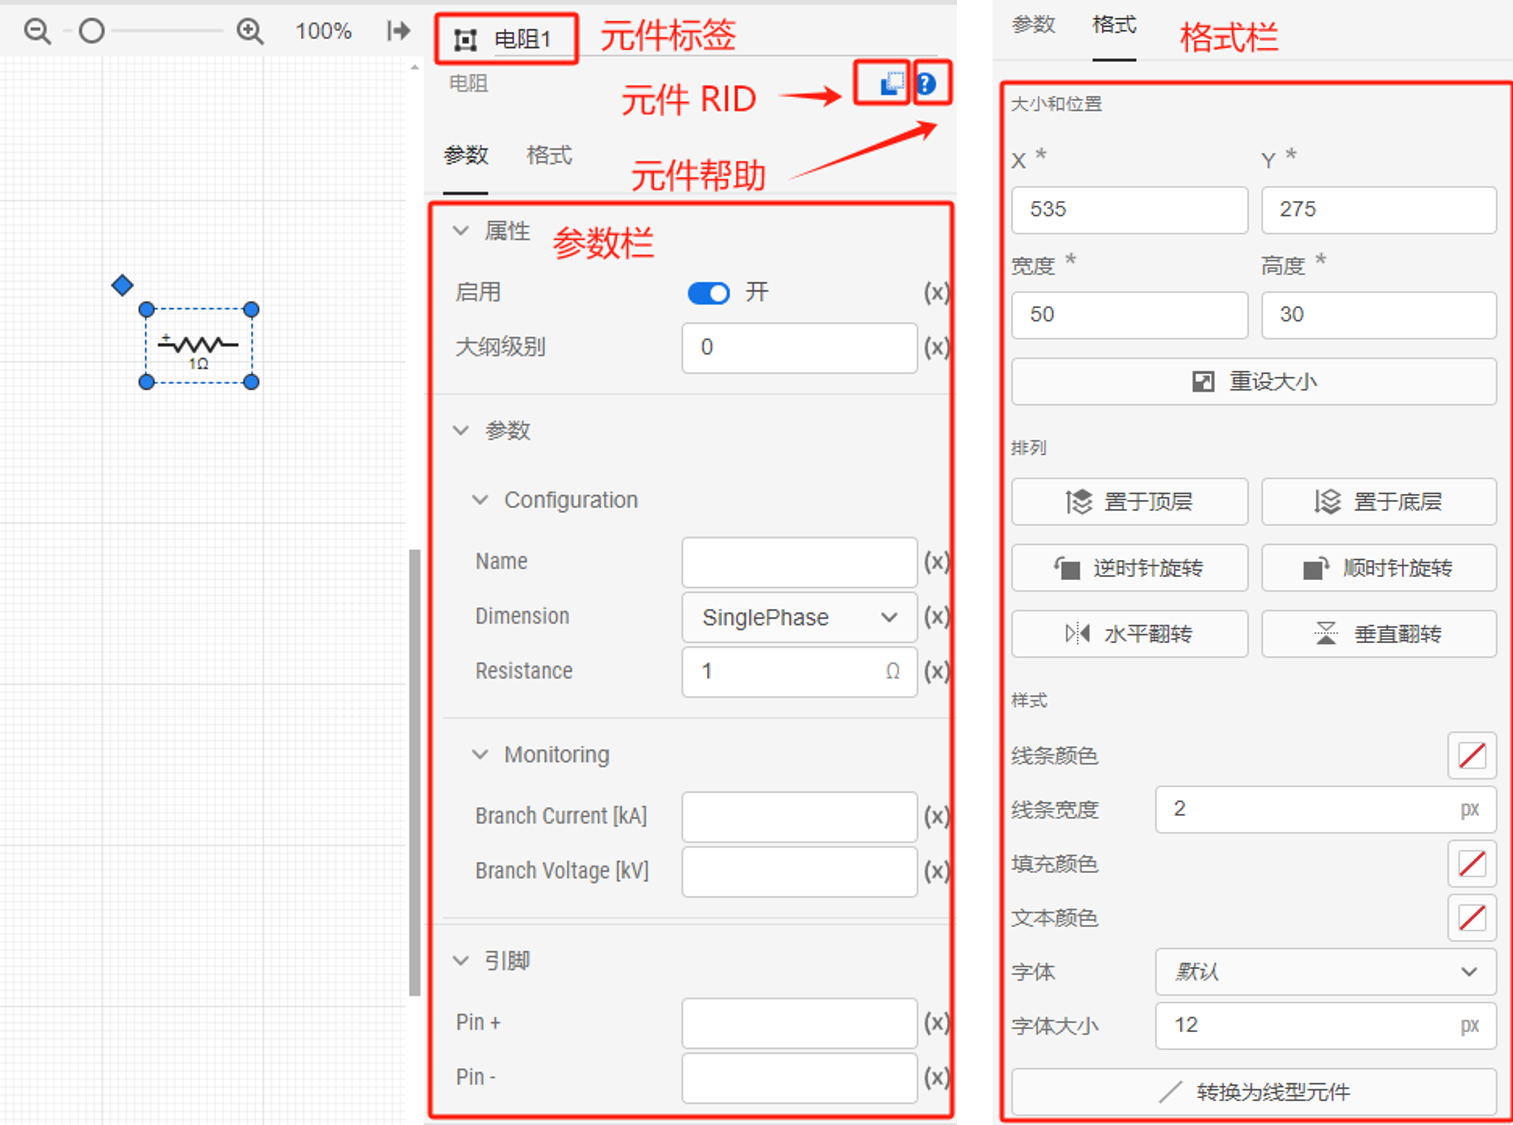
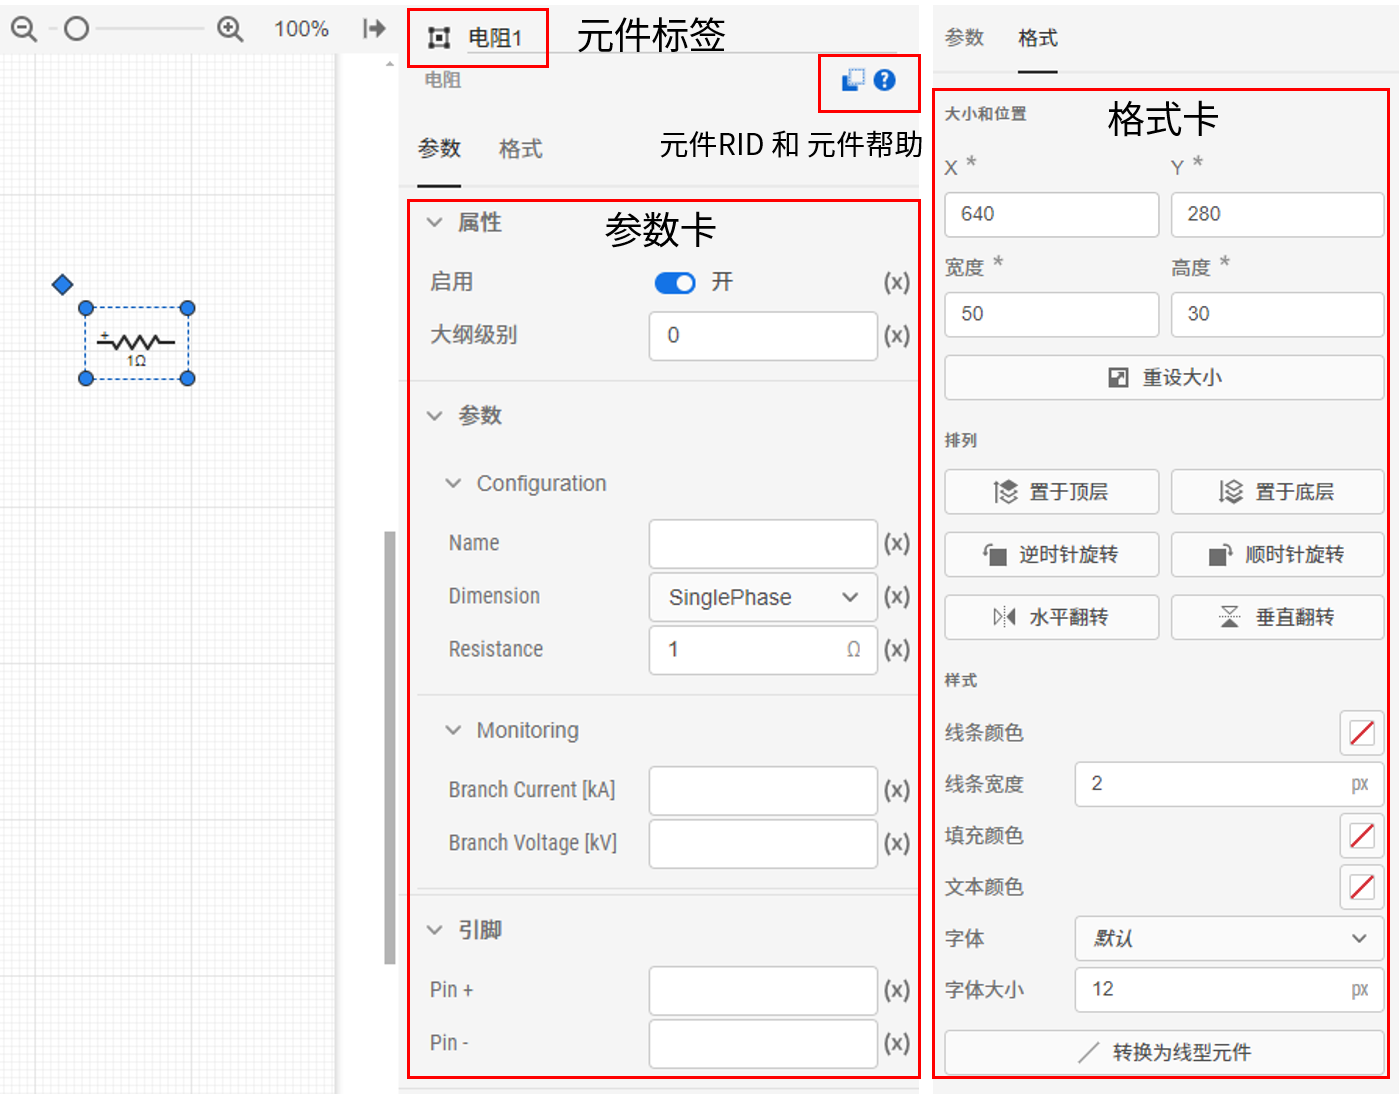
docs: XStudio更新

diff --git a/docs/documents/software/10-xstudio/20-simstudio/40-workbench/20-function-zone/30-design-tab/40-style-panel/index.md b/docs/documents/software/10-xstudio/20-simstudio/40-workbench/20-function-zone/30-design-tab/40-style-panel/index.md
@@ -2,89 +2,94 @@
 title: 格式卡
 description: 格式卡
 ---
-<!-- :::warning 修改建议 
-1. 不要滥用代码框，对于平台中存在的按钮、选项，使用加粗即可。
-2. 部分文字口语化太严重，比如描述操作步骤时，“首先点击实现标签页的图纸选项，然后点击新建图纸即可。”标准的写法应去掉口语化的首先、然后这类助词。“点击**实现标签页**左侧资源栏顶部的**图纸**，切换至图纸标签栏，点击**新建图纸**可添加新的图纸。”
-3. 部分操作说明不清晰，比如“在图纸标签栏，鼠标右键点击待链接的图纸，鼠标右键选择**复制图纸链接**”。
-::: -->
+:::warning 修改建议 
+1. 不要滥用代码框，对于平台中存在的按钮、选项，使用加粗即可。（已修改）
+2. 部分文字口语化太严重，比如描述操作步骤时，“首先点击实现标签页的图纸选项，然后点击新建图纸即可。”标准的写法应去掉口语化的首先、然后这类助词。“点击**实现标签页**左侧资源栏顶部的**图纸**，切换至图纸标签栏，点击**新建图纸**可添加新的图纸。”（已修改）
+3. 部分操作说明不清晰，比如“在图纸标签栏，鼠标右键点击待链接的图纸，鼠标右键选择**复制图纸链接**”。（已修改）
+:::
 
 ## 功能定义
 
-格式栏主要负责对图纸中的连线和元件的格式进行设置。
+格式卡主要负责对图纸中的连接线和元件的格式进行设置。
 
 ## 功能说明
 
-### 连线格式
+### 连接线格式
 
-打开算例项目，点击鼠标右键后选中元件与元件之间的连接线后右侧的属性配置区内会出现连线的格式栏。
+在拓扑编辑区，点击鼠标左键选中元件与元件之间的连接线后，右侧的属性栏内会出现连接线的格式卡。
 
-![连线格式栏](./1.png)
+![连接线格式卡](./1.png)
 
 #### 大小和位置
 
-###### 首端/末端
+##### 首端/末端
 
-可以选择连线的首末端，选项是当前图纸中所有元件的引脚，由元件标签名称/引脚`key`组成，鼠标悬停在选项上会显示出该引脚的元件标签名称、元件的`key`、元件类型、元件的`RID`、元件的引脚、元件的引脚、元件引脚的`key`。
+用于选择连接线的首末端，选项是当前图纸中所有元件的引脚，由元件标签名称/引脚`key`组成，鼠标悬停在选项上会显示出该引脚的元件标签名称、元件的`key`、元件类型、元件的`RID`、元件的引脚、元件引脚的`key`。
 
 ![首端/末端](./2.png)
 
-###### 移除路径点
+##### 移除路径点
 
-选中连线后在连线路径上单击鼠标左键可以在该处设置路径点，左键常按路径点可以拖动调整位置。点击移除路径点可以消除这条连线的所有路径点。
+选中连接线后在连接线路径上点击鼠标左键可以在鼠标光标所在处设置路径点，鼠标左键常按路径点可以拖动调整位置。
+
+点击移除路径点可以消除这条连接线的所有路径点。
 
 ![移除路径点](./3.png)
 
 #### 排列
 
-###### 置于顶/底层
+##### 置于顶/底层
 
-调整连线的图层。
+调整连接线的图层。
 
 #### 线条属性
 
-###### 路由类型
+##### 路由类型
 
-可选`无`或者`正交`，当连线的路由类型选择为`无`时，路径点之间会直接通过线段连接。
+可选**无**或者**正交**，选择为**无**时，路径点之间会直接通过线段连接。
 
 ![路由类型-无](./4.png)
 
-选择为`正交`时，路径点之间通过正交（水平或垂直）线段连接。
+选择为**正交**时，路径点之间通过正交（水平或垂直）线段连接。
 
 ![路由类型-正交](./5.png)
 
-###### 连接类型
+##### 连接类型
 
-用于设置连接线的样式，可选`无`、`正交`或者`平滑`，当连线的连接类型选择为`无`时，连接线是线段；选择为`圆角`时，连线拐角处为圆角；选择`平滑`时，连接线为光滑的曲线。
+用于设置连接线的样式，可选**无**、**正交**或者**平滑**。
+当连接线的连接类型选择为**无**时，连接线是线段；选择为**圆角**时，连接线拐角处为圆角；选择**平滑**时，连接线为光滑的曲线。
 
 ![连接类型](./6.png)
 
 #### 样式
 
-连线样式主要包含线条颜色、线条宽度设置。
+连接线样式主要包含线条颜色、线条宽度设置。
 
 ![连接样式](./7.png)
 
 ### 元件格式
 
-选中图纸中的元件点击鼠标右键后右侧的属性配置区内会出现元件的格式栏。
+在拓扑编辑区，点击鼠标左键选中元件后，右侧的属性栏内会出现元件的格式卡。
 
 ![元件格式栏](./10.png)
 
 #### 大小和位置
 
-用户可通过 `X` 和 `Y` 来修改元件在图纸中的位置，`X` 和 `Y` 是元件左上角顶点的坐标。图纸左上角顶点的坐标为 `X = 0`、`Y = 0`。
+用户可通过 **X** 和 **Y** 来修改元件在图纸中的位置，**X** 和 **Y** 是元件左上角顶点的坐标，图纸左上角顶点的坐标为 X = 0、Y = 0。
 
 通过**宽度**和**高度**修改元件的大小，点击**重设大小**恢复元件默认大小。
 
 :::info
-由于 SimStudio 内置模型库中所有元件的大小都是 5 的整倍数，所有建议用户在修改元件大小的位置是配置为 5 的整数倍，便于元件之间连线。
+由于 SimStudio 内置模型库中所有元件的大小都是 5 的整倍数，建议用户在修改元件大小的位置时配置为 5 的整数倍，便于元件之间连线。
 :::
 
 #### 排列
 
-当不同元件重叠在一起时，排列功能可以设置它们的重叠先后顺序，选择置于顶层或置于底层。排列功能还可以设置元件的旋转角度，可以点击顺时针旋转、逆时针旋转、水平翻转和垂直翻转按钮。
+当不同元件重叠在一起时，通过排列功能设置重叠先后顺序，可选择置于顶层或置于底层。
 
-当框选多个元件及其间的连线时，排列功能可以设置它们的对齐方式和分布方式，如左对齐、水平居中、右对齐、顶端对齐、居中对齐、底端对齐、横向等距分布或纵向等距分布等。
+点击顺时针旋转、逆时针旋转、水平翻转和垂直翻转按钮，设置元件的旋转角度。
+
+当框选多个元件及其间的连接线时，可设置多元素的对齐方式和分布方式，如左对齐、水平居中、右对齐、顶端对齐、居中对齐、底端对齐、横向等距分布或纵向等距分布等。
 
 ![多元件排列](./8.png)
 
@@ -116,7 +121,7 @@ description: 格式卡
 
 ##### 转换为线性元件
 
-点击后可将该元件转换为连线。
+点击后可将该元件转换为连接线。
 
 ![元件样式](./9.png)
 

diff --git a/docs/documents/software/10-xstudio/20-simstudio/40-workbench/20-function-zone/30-design-tab/30-param-panel/index.md b/docs/documents/software/10-xstudio/20-simstudio/40-workbench/20-function-zone/30-design-tab/30-param-panel/index.md
@@ -3,13 +3,17 @@ title: 参数卡
 description: 参数卡
 ---
 
-<!-- :::warning 修改建议 
+:::warning 修改建议 
 1. 这篇文档太长，参数卡部分的内容太多，都已经到6级标题了，建议单独作为一篇子文档，可以详细讲解一下其中的大纲、浮窗、多选后参数配置等问题。
-::: -->
+:::
 
-#### 参数卡
+## 功能定义
 
-元件参数卡由**属性**、**参数**和**引脚**三部分组成。
+参数卡主要负责对图纸中元件的参数进行设置。
+
+## 功能说明
+
+在拓扑编辑区，点击鼠标左键选中元件后，右侧的属性栏内会出现元件的参数卡，由**属性**、**参数**和**引脚**三部分组成。
 
 :::tip 参数卡悬浮窗
 当鼠标移动到参数卡的某项参数上方，或处在某项参数的编辑状态时，当前参数的左侧会浮动显示当前参数的辅助信息，包括：

diff --git a/docs/documents/software/10-xstudio/20-simstudio/40-workbench/20-function-zone/30-design-tab/index.md b/docs/documents/software/10-xstudio/20-simstudio/40-workbench/20-function-zone/30-design-tab/index.md
@@ -140,9 +140,9 @@ EMTLab SimStudio 工作台中的**多实现选择栏**主要包括**拓扑**、*
   + **参数卡**：用于配置与模型有效性、参数、连接关系有关的选项。参数卡的详细说明参见 [参数卡](./30-param-panel/index.md) 帮助页。
   + **格式卡**：用于配置与图形显示有关的选项。元件格式配置的详细说明参见 [格式卡](./40-style-panel/index.md) 帮助页。
 
-<!-- :::danger 批注
-此处名称改了，图片需要改一下。此外，这张图标注太乱。
-::: -->
+:::danger 批注
+此处名称改了，图片需要改一下。此外，这张图标注太乱。(已修改)
+:::
 
 ![元件属性栏](./2-2.png)
 
